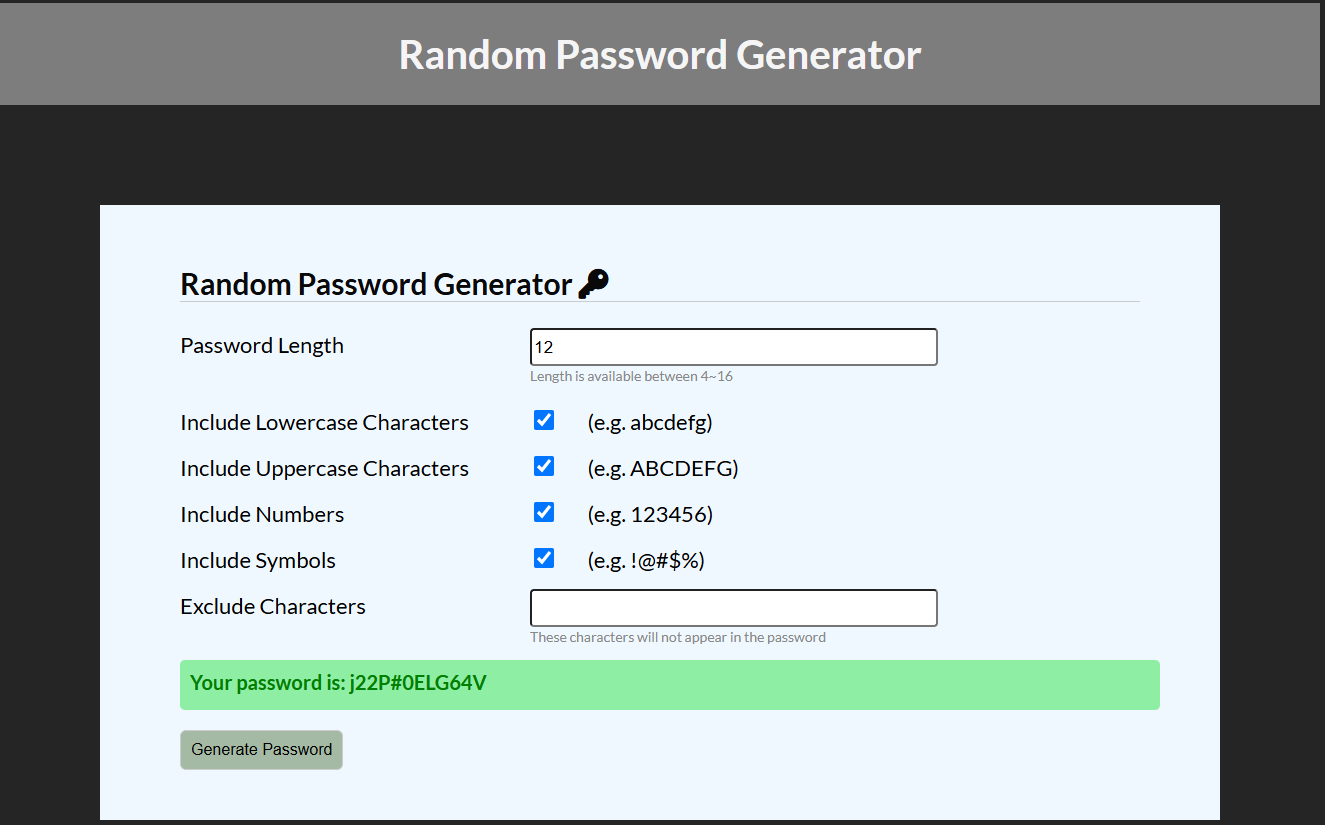
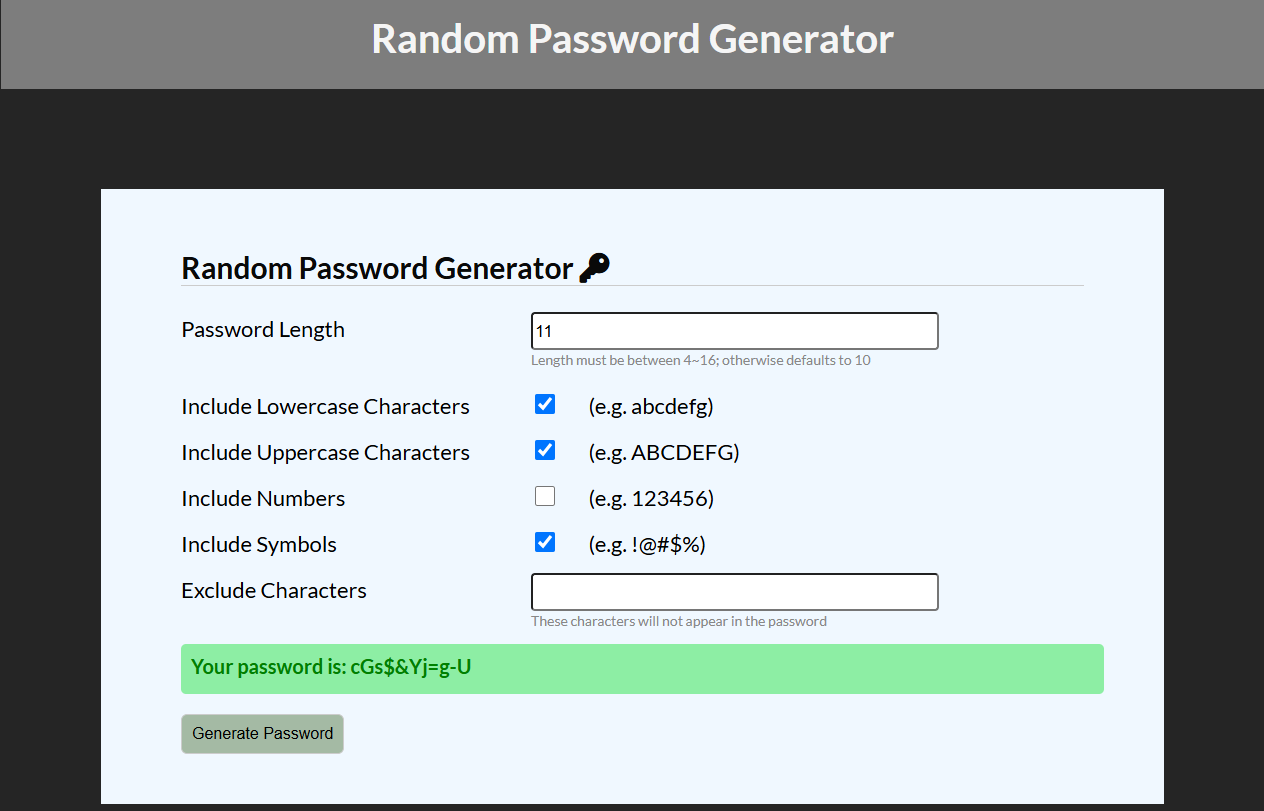
change: "README.md" image and edit description

diff --git a/README.md b/README.md
@@ -3,7 +3,7 @@
 ![success](./public/image/success.PNG)
 
 ## Introduction
-Enter the desired password length (default is 10)<br>
+Enter a password length between 4 and 16; otherwise, it defaults to 10<br>
 Select at least one requirement<br>
 Click the "Generate Password" button to generate a password based on the selected criteria
 
